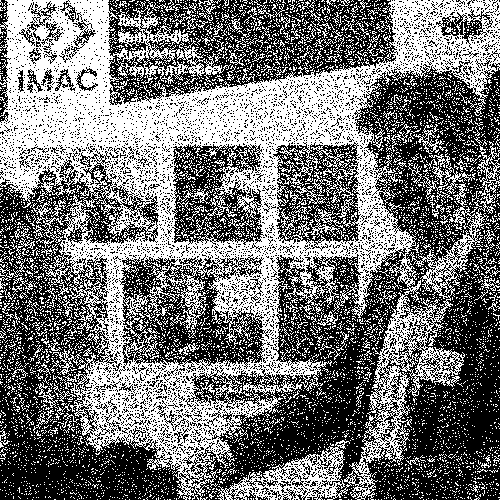
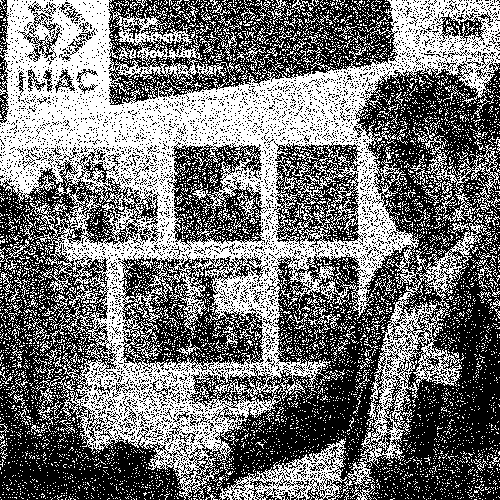
Flou OK

diff --git a/src/main.cpp b/src/main.cpp
@@ -398,5 +398,38 @@ int main()
     } 
     low_image.save("output/exo20.jpg"); 
 
+
+       // Exercice 21 :
+
+    for (int x{0}; x < image.width(); x++)
+    {
+        for (int y{0}; y < image.height(); y++)
+        {
+            glm::vec3 sum {0.f};
+            int size {10};
+            for (int x_offset{-size}; x_offset < size; x_offset++)
+            {
+                for (int y_offset{-size}; y_offset < size; y_offset++)
+                {
+                    int real_x_offset{x_offset};
+                    int real_y_offset{y_offset};
+                    if (x+real_x_offset<0 || x+real_x_offset>=image.width())
+                    {
+                        real_x_offset = 0;
+                    }
+                    if (y+real_y_offset<0 || y+real_y_offset>=image.height())
+                    {
+                        real_y_offset = 0;
+                    }
+                    sum += image.pixel(x+real_x_offset,y+real_y_offset);
+                }
+            }
+            sum /= pow(2*size+1,2);
+            image.pixel(x,y)=sum;
+        }
+    }
+    image.save("output/exo21.png"); 
+
+
 }  
 
